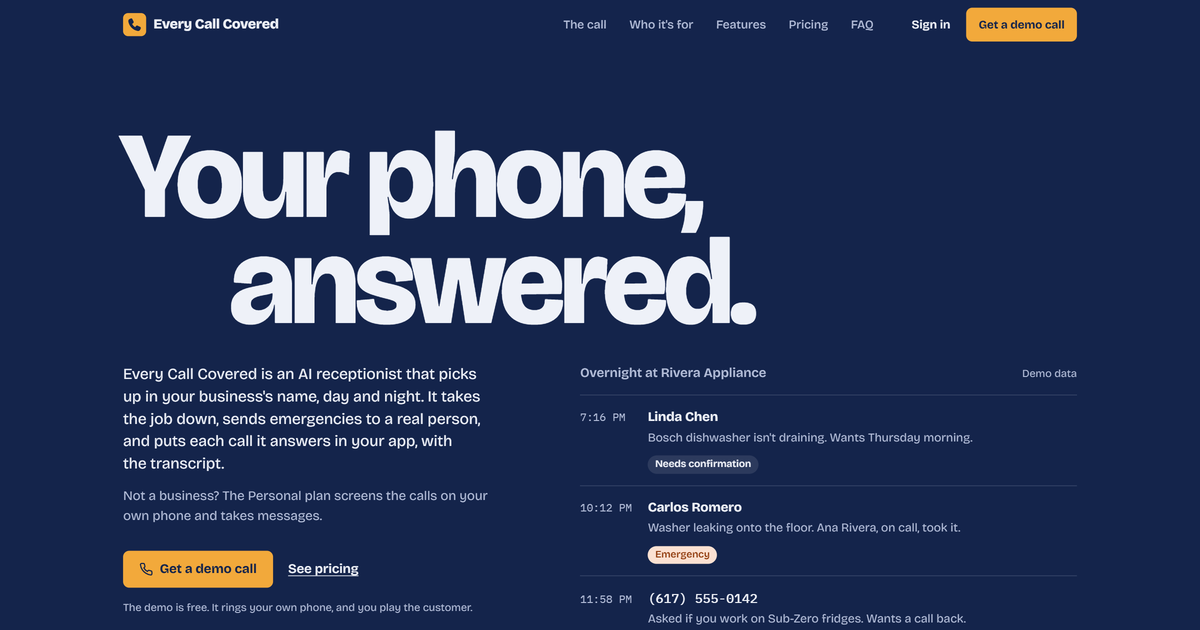
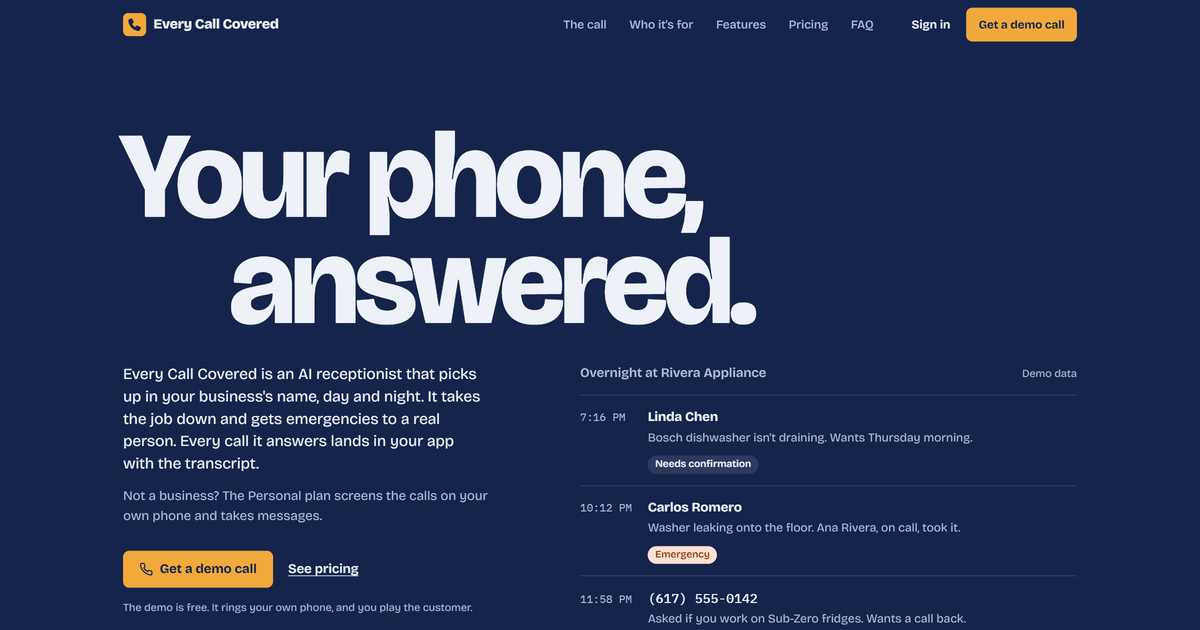
Fix the second design review's layout and copy findings
- Tablets use the short tab labels (the third was cut off at 768px); on
  phones the tabs are three equal columns and Play is a full-width button.
- The level meter sits in the call-state line instead of an empty row, and
  the transcript's top fade is long enough to hide clipped bubbles.
- The transcript height follows the text size; app buttons sit two by two
  on phones; numbers use the mono face everywhere and words never do.
- The emergency feature gets the emergency colour; the footer links are
  evenly spaced; tracks and control borders reach 3:1; the FAQ hover uses
  the brand navy; curly quotes throughout.
- Headings: the pricing notes are h3s under the pricing h2, and the
  Personal card is a section, not an aside.
- Without JavaScript the whole transcript shows, the section links sit in a
  row under the header on phones, and the calculator reads as an example.
- Copy: "What it does", "Messages you can act on", "Asks for a time", a
  two-part hero lede and matching share descriptions; share image retaken.

Changed region(s): [[0.0925, 0.6333, 0.4008, 0.754]]

diff --git a/index.html b/index.html
@@ -4,14 +4,14 @@
 <meta charset="utf-8">
 <meta name="viewport" content="width=device-width, initial-scale=1, viewport-fit=cover">
 <title>Every Call Covered: an AI receptionist that answers in your name</title>
-<meta name="description" content="An AI receptionist that answers your phone in your business's name, day and night. It takes the job down, sends emergencies to your on-call person, and puts every call it takes in your app with the transcript. From $65 a month for trade businesses, or $11.99 for your own phone.">
+<meta name="description" content="An AI receptionist that answers your phone in your business's name, day and night. It takes the job down and gets emergencies to your on-call person, and every call it answers lands in your app with the transcript. From $65 a month for trade businesses, or $11.99 for your own phone.">
 <!-- The app's address. Every sign-up, demo and sign-in link (data-app) also carries it in its href, so the links work without JavaScript; assets/site.js keeps them in step with this tag. To move the app, replace the address everywhere in this file. -->
 <meta name="ecc-app-url" content="https://every-call-covered.replit.app/sign-in">
 <meta name="theme-color" content="#14244b">
 <link rel="canonical" href="https://everycallcovered.com/">
 <meta property="og:site_name" content="Every Call Covered">
 <meta property="og:title" content="Every Call Covered: an AI receptionist that answers in your name">
-<meta property="og:description" content="It answers day and night, takes the job down, sends emergencies to your on-call person, and puts every call it takes in your app with the transcript.">
+<meta property="og:description" content="It answers in your business's name day and night, takes the job down and gets emergencies to your on-call person. Every call it answers lands in your app with the transcript.">
 <meta property="og:type" content="website">
 <meta property="og:url" content="https://everycallcovered.com/">
 <meta property="og:locale" content="en_US">
@@ -21,7 +21,7 @@
 <meta property="og:image:alt" content="The top of the Every Call Covered home page: the headline “Your phone, answered.” over an overnight call log.">
 <meta name="twitter:card" content="summary_large_image">
 <meta name="twitter:title" content="Every Call Covered: an AI receptionist that answers in your name">
-<meta name="twitter:description" content="It answers day and night, takes the job down, sends emergencies to your on-call person, and puts every call it takes in your app with the transcript.">
+<meta name="twitter:description" content="It answers in your business's name day and night, takes the job down and gets emergencies to your on-call person. Every call it answers lands in your app with the transcript.">
 <meta name="twitter:image" content="https://everycallcovered.com/assets/og-image.png">
 <meta name="twitter:image:alt" content="The top of the Every Call Covered home page: the headline “Your phone, answered.” over an overnight call log.">
 <link rel="icon" href="/favicon.ico" sizes="48x48">
@@ -81,7 +81,7 @@
   <div class="wrap">
     <h1 id="hero-title"><span>Your phone,</span> <span class="second">answered.</span></h1>
     <div class="hero-copy">
-      <p class="lede">Every Call Covered is an AI receptionist that picks up in your business's name, day and night. It takes the job down, sends emergencies to a real person, and puts each call it answers in your app, with the transcript.</p>
+      <p class="lede">Every Call Covered is an AI receptionist that picks up in your business's name, day and night. It takes the job down and gets emergencies to a real person. Every call it answers lands in your app with the transcript.</p>
       <p class="lede-2">Not a business? The Personal plan screens the calls on your own phone and takes messages.</p>
       <div class="ctas">
         <a class="btn" data-app href="https://every-call-covered.replit.app/sign-in" id="hero-cta"><svg aria-hidden="true"><use href="#i-phone"/></svg>Get a demo call</a>
@@ -115,7 +115,7 @@
         <div class="scenarios" role="tablist" aria-label="Example calls">
           <button role="tab" id="tab-repair" aria-selected="true" aria-controls="stage" data-scenario="repair"><span class="wide-only">A repair request</span><span class="narrow-only">Repair</span></button>
           <button role="tab" id="tab-emergency" aria-selected="false" aria-controls="stage" data-scenario="emergency" tabindex="-1"><span class="wide-only">An emergency at 10 PM</span><span class="narrow-only">Emergency</span></button>
-          <button role="tab" id="tab-scam" aria-selected="false" aria-controls="stage" data-scenario="scam" tabindex="-1"><span class="wide-only">A scam call, Personal plan</span><span class="narrow-only">Scam call</span></button>
+          <button role="tab" id="tab-scam" aria-selected="false" aria-controls="stage" data-scenario="scam" tabindex="-1"><span class="wide-only">A scam call, Personal plan</span><span class="narrow-only">Scam</span></button>
         </div>
         <div class="transport">
           <button class="ghost" id="play" type="button"><svg aria-hidden="true"><use href="#i-play"/></svg><span class="play-label">Play</span></button>
@@ -125,11 +125,10 @@
       <div class="stage" id="stage" role="tabpanel" aria-labelledby="tab-repair">
         <div class="line" id="line" data-state="ended">
           <div class="line-head">
-            <span class="line-state"><span class="led" aria-hidden="true"></span><span id="line-state">Call ended</span></span>
+            <span class="line-state"><span class="led" aria-hidden="true"></span><span id="line-state">Call ended</span><span class="meter" aria-hidden="true"><i></i><i></i><i></i><i></i><i></i><i></i><i></i></span></span>
             <span class="line-who" id="line-who">Your receptionist</span>
-            <span class="line-num" id="line-num">(781) 555-0123</span>
+            <span class="line-num" id="line-num">Caller <span class="num">(781) 555-0123</span></span>
             <span class="clock" id="clock" aria-hidden="true">0:48</span>
-            <span class="meter" aria-hidden="true"><i></i><i></i><i></i><i></i><i></i><i></i><i></i></span>
             <span class="now" aria-hidden="true"><span class="bar"><i id="line-progress" style="width: 100%"></i></span><span id="now-chapter">Lands in your app</span></span>
           </div>
           <div class="transcript resolved" id="transcript" role="log" aria-live="off" aria-label="Transcript" tabindex="0"><div class="msg r"><span class="who">Receptionist, 0:02</span><p>This call may be recorded for training and business purposes. Thanks for calling Rivera Appliance. How can I help you today?</p></div><div class="msg c"><span class="who">Caller, 0:09</span><p>Hi, my <span class="k">Bosch dishwasher isn't draining</span>. There's water sitting in the bottom after every cycle.</p></div><div class="msg r"><span class="who">Receptionist, 0:15</span><p>Sorry about that. I can get a technician out to look at it. Can I get your name and a good number to reach you?</p></div><div class="msg c"><span class="who">Caller, 0:23</span><p><span class="k">Linda Chen</span>, <span class="k">781-555-0123</span>.</p></div><div class="msg r"><span class="who">Receptionist, 0:27</span><p>Thanks, Linda. What's the address for the visit?</p></div><div class="msg c"><span class="who">Caller, 0:30</span><p><span class="k">27 Birch Lane</span> in Springfield.</p></div><div class="msg r"><span class="who">Receptionist, 0:33</span><p>Got it, 27 Birch Lane. Is a morning or an afternoon better for you?</p></div><div class="msg c"><span class="who">Caller, 0:38</span><p><span class="k">Thursday morning</span> would be great.</p></div><div class="msg r"><span class="who">Receptionist, 0:41</span><p>I have that down for Thursday morning. The office will confirm the visit with you.</p></div><div class="msg c"><span class="who">Caller, 0:46</span><p>Perfect, thanks.</p></div></div>
@@ -153,7 +152,7 @@
         <ol class="chapter-list" id="chapters" aria-label="Parts of the call"></ol>
       </div>
       <p class="sr-only" aria-live="polite" id="announce"></p>
-      <p class="demo-note">Sample calls with demo data, scripted for this page. The app screens are copies of the real app's screens.</p>
+      <p class="demo-note">Sample calls with demo data, scripted for this page. The app screens are rebuilt from the real app.</p>
     </div>
   </div>
 </section>
@@ -173,13 +172,13 @@
       </ul>
     </div>
 
-    <aside class="me" aria-labelledby="me-title">
+    <section class="me" aria-labelledby="me-title">
       <h2 id="me-title">And for your own phone</h2>
       <p class="intro">The Personal plan answers the calls you can't or won't take, and lets the right ones through.</p>
       <div class="me-points">
         <div><h3>Screens spam and scam calls</h3><p>Sales calls turned away if you like. A suspected scam is noted with the reason, and what to do if you already paid. Harassing calls are ended and flagged.</p></div>
         <div><h3>Family always gets through</h3><p>Put them on “Always ring me.” Numbers on “Never answer” are turned away. Everyone else reaches your assistant.</p></div>
-        <div><h3>Messages, not voicemail</h3><p>Who called, their number, what it's about and whether it's urgent. A caller who claims an emergency is checked first, with your family code word if you set one.</p></div>
+        <div><h3>Messages you can act on</h3><p>Who called, their number, what it's about and whether it's urgent. A caller who claims an emergency is checked first, with your family code word if you set one.</p></div>
         <div><h3>Creator mode</h3><p>Brand and sponsorship calls are taken down, never agreed to.</p></div>
       </div>
       <div class="mini" role="group" aria-label="Calls today, from the Personal app">
@@ -188,14 +187,14 @@
         <div class="mini-row"><span class="n num">(857) <span class="nw">555-0190</span></span><span class="tag warn">Suspected scam</span><span class="d">Said your car warranty is expiring and asked for your card number. Your assistant ended the call.</span></div>
       </div>
       <p class="me-more"><a class="link" href="#pricing">Personal is $11.99 a month. See the plan</a></p>
-    </aside>
+    </section>
   </div>
 </section>
 
 <section class="features" id="features" aria-labelledby="features-title">
   <div class="wrap features-inner">
     <div class="section-head">
-      <h2 id="features-title">From the first ring to the inbox</h2>
+      <h2 id="features-title">What it does</h2>
     </div>
 
     <div class="groups">
@@ -206,7 +205,7 @@
           <li><strong>Replies in the caller's language</strong><span>A caller who speaks Spanish hears Spanish back. Your notes stay in English.</span></li>
           <li><strong>Asks what your trade needs</strong><span>For appliance repair: the appliance, the brand, whether it's under warranty, the address and a good time. Each trade asks its own questions.</span></li>
           <li><strong>Says what it is</strong><span>It doesn't pretend to be a person. Asked, it says it's your virtual assistant.</span></li>
-          <li class="wide"><strong>Emergencies go to a person</strong><span>Your trade's emergency list, plus your own. It gives the safety step first, checks the problem is happening now, takes the address, then calls your on-call people in order until one presses 1. For a gas smell, it tells the caller to leave and call 911, books nothing, and still alerts your on-call person.</span></li>
+          <li class="wide key"><strong>Emergencies go to a person</strong><span>Your trade's emergency list, plus your own. It gives the safety step first, checks the problem is happening now, takes the address, then calls your on-call people in order until one presses 1. For a gas smell, it tells the caller to leave and call 911, books nothing, and still alerts your on-call person.</span></li>
         </ul>
       </div>
 
@@ -317,21 +316,22 @@
         <p class="hint">Personal is one sign-in, with no extra people. To add people, choose Business or Growth.</p>
       </div>
       <div>
+        <p class="no-js-only calc-example">At 60 call minutes a month:</p>
         <div class="readout"><label for="minutes">Call minutes in a month</label><output class="minutes" id="minutes-out" for="minutes">60</output></div>
         <input class="range" type="range" id="minutes" min="0" max="800" step="10" value="60" aria-valuetext="60 minutes" style="--p: .075">
         <div class="range-scale" aria-hidden="true"><span style="--x: 0">0</span><span style="--x: .5">400</span><span style="--x: 1">800</span></div>
         <ul class="totals" id="totals">
-          <li data-plan="personal"><span class="p">Personal</span><span class="v">$38.99</span><span class="why">$11.99 plus 60 minutes of credit</span></li>
-          <li data-plan="business"><span class="p">Business</span><span class="v">$65.00</span><span class="why">Inside the 150 included</span></li>
-          <li data-plan="growth"><span class="p">Growth</span><span class="v">$119.00</span><span class="why">Inside the 400 included</span></li>
+          <li data-plan="personal" class="best"><span class="p">Personal</span><span class="v">$38.99</span><span class="why">$11.99 + 60 min at $0.45</span></li>
+          <li data-plan="business"><span class="p">Business</span><span class="v">$65.00</span><span class="why">Within the 150 included minutes</span></li>
+          <li data-plan="growth"><span class="p">Growth</span><span class="v">$119.00</span><span class="why">Within the 400 included minutes</span></li>
         </ul>
       </div>
     </div>
 
     <div class="good-to-know">
-      <div><h4>$10 of calls to start</h4><p>After your first payment we add $10 of call credit. It's for calls only and expires after 30 days.</p></div>
-      <div><h4>Three free demo calls</h4><p>Your number goes live once your first payment goes through. Before that, you get three demo calls of up to three minutes each, with the transcript of each.</p></div>
-      <div><h4>Minutes and credit</h4><p>Included minutes reset each month and don't roll over. Credit is prepaid, and auto-refill can add more when it runs low.</p></div>
+      <div><h3>$10 of calls to start</h3><p>After your first payment we add $10 of call credit. It's for calls only and expires after 30 days.</p></div>
+      <div><h3>Three free demo calls</h3><p>Your number goes live once your first payment goes through. Before that, you get three demo calls of up to three minutes each, with the transcript of each.</p></div>
+      <div><h3>Minutes and credit</h3><p>Included minutes reset each month and don't roll over. Credit is prepaid, and auto-refill can add more when it runs low.</p></div>
     </div>
   </div>
 </section>
@@ -369,7 +369,7 @@
       </details>
       <details>
         <summary>Will it put jobs on my calendar?<span class="pm" aria-hidden="true"></span></summary>
-        <div class="a"><p>No. Every request lands in your inbox as "Needs confirmation." You confirm, edit, assign or decline it. Nothing is scheduled on its own, and confirming never texts the customer.</p></div>
+        <div class="a"><p>No. Every request lands in your inbox as “Needs confirmation.” You confirm, edit, assign or decline it. Nothing is scheduled on its own, and confirming never texts the customer.</p></div>
       </details>
     </div>
   </div>

diff --git a/assets/site.css b/assets/site.css
@@ -117,7 +117,7 @@ h1, h2, h3 { margin: 0; text-wrap: balance; }
 .head-actions .signin { padding: .6rem .8rem; text-decoration: none; font-weight: 600; font-size: .9688rem; min-height: 44px; display: inline-flex; align-items: center; border-radius: var(--radius-control); }
 .head-actions .signin:hover { background: rgba(255, 255, 255, .06); }
 .brand, .head-actions a { white-space: nowrap; }
-.site-head .brand { min-width: 0; }
+.site-head .brand { min-width: 44px; }
 .head-actions { flex: none; }
 @media (max-width: 479px) { .site-head .brand span { white-space: normal; line-height: 1.1; font-size: min(1em, 4.6vw); } }
 @media (max-width: 899px) { .site-nav { display: none; } .head-actions { margin-left: auto; } }
@@ -200,7 +200,7 @@ h1, h2, h3 { margin: 0; text-wrap: balance; }
 .transport .ghost { white-space: nowrap; background: var(--moon); color: var(--navy); border-color: var(--moon); padding-inline: 1.1rem; }
 .transport .ghost:hover { background: #fff; border-color: #fff; }
 .ghost {
-  min-height: 44px; padding: .5rem .95rem; border-radius: var(--radius-control); border: 1px solid rgba(179, 189, 216, .5);
+  min-height: 44px; padding: .5rem .95rem; border-radius: var(--radius-control); border: 1px solid rgba(179, 189, 216, .62);
   background: none; color: var(--moon); font-weight: 600; font-size: .9375rem; cursor: pointer; display: inline-flex; align-items: center; gap: .45rem;
   transition: background-color .18s ease, border-color .18s ease;
 }
@@ -225,7 +225,7 @@ h1, h2, h3 { margin: 0; text-wrap: balance; }
 .line-who { font-weight: 700; font-size: var(--step-1); line-height: 1.25; overflow-wrap: break-word; }
 .line-num { font-family: var(--mono); color: var(--moon-dim); font-size: .9375rem; }
 .clock { grid-row: 1 / 4; grid-column: 2; align-self: center; font-family: var(--mono); font-size: clamp(1.6rem, 1.2rem + 1.4vw, 2.25rem); font-weight: 400; letter-spacing: -.02em; font-variant-numeric: tabular-nums; line-height: 1; }
-.meter { display: flex; gap: 3px; align-items: center; height: 18px; margin-top: .35rem; }
+.meter { display: inline-flex; gap: 3px; align-items: center; height: 14px; margin-left: .35rem; }
 .meter i { width: 3px; height: 4px; border-radius: 2px; background: var(--moon-dim); opacity: .5; transition: height .12s ease; }
 .line[data-speaking="r"] .meter i, .line[data-speaking="c"] .meter i { opacity: 1; background: var(--amber); }
 .line[data-speaking="c"] .meter i { background: var(--chip); }
@@ -237,7 +237,7 @@ h1, h2, h3 { margin: 0; text-wrap: balance; }
 }
 @keyframes bar { 0%, 100% { height: 4px; } 50% { height: 16px; } }
 
-.transcript { flex: 1 1 0; min-height: 0; padding: 1.1rem 1.25rem 1.4rem; overflow-y: auto; -webkit-mask-image: linear-gradient(to bottom, transparent 0, #000 .6rem); mask-image: linear-gradient(to bottom, transparent 0, #000 .6rem); display: flex; flex-direction: column; gap: .75rem; scroll-behavior: smooth; }
+.transcript { flex: 1 1 0; min-height: 0; padding: 1.1rem 1.25rem 1.4rem; overflow-y: auto; -webkit-mask-image: linear-gradient(to bottom, transparent 0, #000 2rem); mask-image: linear-gradient(to bottom, transparent 0, #000 2rem); display: flex; flex-direction: column; gap: .75rem; scroll-behavior: smooth; }
 .transcript:empty::before { content: "The call starts when you press Play."; color: var(--moon-dim); font-size: .9375rem; }
 .msg { max-width: 88%; display: grid; gap: .25rem; }
 .msg .who { font-size: .8125rem; font-weight: 600; color: var(--moon-dim); }
@@ -339,7 +339,7 @@ h1, h2, h3 { margin: 0; text-wrap: balance; }
 .chapter-list .l { font-weight: 600; font-size: .9375rem; line-height: 1.25; }
 .chapter-list button[aria-current="step"] { color: var(--moon); }
 .chapter-list button[aria-current="step"] .t { color: var(--amber); }
-.chapter-list button.done { color: var(--moon-dim); }
+.chapter-list button.done { color: #d4daea; }
 .chapter-list button[aria-current="step"] .l { font-weight: 700; }
 .demo-note { margin-top: 1rem; font-size: var(--step--1); color: var(--moon-dim); }
 
@@ -426,8 +426,8 @@ h1, h2, h3 { margin: 0; text-wrap: balance; }
 .calc .readout { display: flex; justify-content: space-between; align-items: baseline; gap: 1rem; font-weight: 600; }
 .calc output.minutes { font-size: var(--step-3); font-weight: 800; letter-spacing: -.03em; font-variant-numeric: tabular-nums; }
 .range { width: 100%; margin: 1rem 0 .25rem; accent-color: var(--amber); height: 44px; background: none; -webkit-appearance: none; appearance: none; cursor: pointer; }
-.range::-webkit-slider-runnable-track { --at: calc(13px + (100% - 26px) * var(--p, .075)); height: 6px; border-radius: 6px; background: linear-gradient(to right, var(--amber) var(--at), rgba(179, 189, 216, .45) var(--at)); }
-.range::-moz-range-track { height: 6px; border-radius: 6px; background: rgba(179, 189, 216, .45); }
+.range::-webkit-slider-runnable-track { --at: calc(13px + (100% - 26px) * var(--p, .075)); height: 6px; border-radius: 6px; background: linear-gradient(to right, var(--amber) var(--at), rgba(179, 189, 216, .62) var(--at)); }
+.range::-moz-range-track { height: 6px; border-radius: 6px; background: rgba(179, 189, 216, .62); }
 .range::-moz-range-progress { height: 6px; border-radius: 6px; background: var(--amber); }
 .range::-webkit-slider-thumb { -webkit-appearance: none; width: 26px; height: 26px; margin-top: -10px; border-radius: 50%; background: var(--moon); border: 4px solid var(--amber); transition: transform .12s ease; }
 .range::-moz-range-thumb { width: 18px; height: 18px; border-radius: 50%; background: var(--moon); border: 4px solid var(--amber); }
@@ -444,7 +444,7 @@ h1, h2, h3 { margin: 0; text-wrap: balance; }
 .totals .why { display: block; font-size: .8125rem; color: var(--moon-dim); margin-top: .2rem; }
 .good-to-know { margin-top: 3rem; display: grid; grid-template-columns: minmax(0, 1fr); gap: 1.25rem 2.5rem; }
 @media (min-width: 760px) { .good-to-know { grid-template-columns: repeat(3, minmax(0, 1fr)); } }
-.good-to-know h4 { margin: 0 0 .35rem; font-size: 1.0625rem; font-weight: 700; }
+.good-to-know h3 { margin: 0 0 .35rem; font-size: 1.0625rem; font-weight: 700; }
 .good-to-know p { color: var(--moon-dim); font-size: .9688rem; }
 
 /* ---------- FAQ ---------- */
@@ -458,7 +458,7 @@ h1, h2, h3 { margin: 0; text-wrap: balance; }
   padding: 1.2rem 0; min-height: 44px; font-size: var(--step-1); font-weight: 700; letter-spacing: -.01em; line-height: 1.3;
 }
 .qa summary::-webkit-details-marker { display: none; }
-.qa summary:hover { color: #000; }
+.qa summary:hover { color: var(--navy); }
 .qa .pm { width: 28px; height: 28px; border-radius: 50%; border: 1.5px solid var(--ink); position: relative; transition: background-color .2s ease, transform .25s var(--ease-out); }
 .qa .pm::before, .qa .pm::after { content: ""; position: absolute; left: 50%; top: 50%; width: 12px; height: 1.5px; background: var(--ink); translate: -50% -50%; transition: transform .25s var(--ease-out), background-color .2s; }
 .qa .pm::after { transform: rotate(90deg); }
@@ -478,8 +478,8 @@ h1, h2, h3 { margin: 0; text-wrap: balance; }
 /* ---------- Footer ---------- */
 .site-foot { border-top: 1px solid var(--rule-on-navy); padding: 2.5rem 0 3rem; font-size: .9375rem; color: var(--moon-dim); }
 .site-foot .wrap { display: flex; flex-wrap: wrap; gap: 1.5rem 3rem; justify-content: space-between; align-items: flex-start; }
-.site-foot nav ul { list-style: none; margin: 0; padding: 0; display: flex; flex-wrap: wrap; gap: .25rem 1.25rem; }
-.site-foot nav a { text-decoration: none; min-height: 44px; min-width: 44px; display: inline-flex; align-items: center; justify-content: center; }
+.site-foot nav ul { list-style: none; margin: 0; padding: 0; display: flex; flex-wrap: wrap; gap: .25rem .5rem; }
+.site-foot nav a { text-decoration: none; min-height: 44px; padding-inline: .5rem; display: inline-flex; align-items: center; }
 .site-foot nav a:hover { color: var(--moon); text-decoration: underline; }
 .site-foot .brand { color: var(--moon); }
 
@@ -498,7 +498,7 @@ h1, h2, h3 { margin: 0; text-wrap: balance; }
 .log-more { margin-top: 1rem; }
 .log-more .link { color: var(--amber); }
 .app.compact { min-height: 0; display: block; box-shadow: none; background: none; border-radius: 0; overflow: visible; }
-.live-card .who .caller-num { font-weight: 700; white-space: nowrap; }
+.live-card .who .caller-num { font-family: var(--mono); font-weight: 500; }
 .transfer-demo .explain p + p { margin-top: .6rem; }
 .site-foot .copy { margin-top: .75rem; }
 
@@ -521,14 +521,14 @@ h1, h2, h3 { margin: 0; text-wrap: balance; }
 .calls-today .landing { gap: 0; }
 .calls-today .landing .mini-row { border-bottom: 0; }
 
-.app-note:empty { display: none; }
+.app-note:empty { min-height: 0; margin: 0; }
 @media (max-width: 639px) {
   .scenarios { flex-wrap: wrap; overflow: visible; }
   .scenarios [role="tab"] { flex: 1 1 auto; }
 }
 @media (max-width: 959px) {
   .line { min-height: 0; }
-  .transcript { flex: none; height: 460px; }
+  .transcript { flex: none; height: min(27em, 72svh); }
   .app { min-height: 0; }
 }
 @media (prefers-reduced-motion: reduce) {
@@ -542,10 +542,11 @@ h1, h2, h3 { margin: 0; text-wrap: balance; }
 /* Short labels on narrow screens */
 .narrow-only { display: none; }
 @media (max-width: 399px) { .head-actions .wide-only { display: none; } .head-actions .narrow-only { display: inline; } }
-@media (max-width: 639px) { .scenarios .wide-only { display: none; } .scenarios .narrow-only { display: inline; } .scenarios [role="tab"] { padding-inline: .7rem; } }
+@media (max-width: 959px) { .scenarios .wide-only { display: none; } .scenarios .narrow-only { display: inline; } .scenarios [role="tab"] { padding-inline: .7rem; } }
+@media (max-width: 639px) { .scenarios { display: grid; grid-template-columns: repeat(3, minmax(0, 1fr)); } .transport { flex: 1 1 100%; } .transport .ghost { width: 100%; justify-content: center; } }
 
 /* Menu below 900px */
-.menu-btn { display: none; width: 44px; height: 44px; border: 1px solid rgba(179, 189, 216, .5); border-radius: var(--radius-control); background: none; cursor: pointer; align-items: center; justify-content: center; }
+.menu-btn { display: none; width: 44px; height: 44px; border: 1px solid rgba(179, 189, 216, .62); border-radius: var(--radius-control); background: none; cursor: pointer; align-items: center; justify-content: center; }
 .menu-btn svg { width: 20px; height: 20px; }
 .menu-btn[aria-expanded="true"] { background: rgba(255, 255, 255, .08); }
 @media (max-width: 899px) { .menu-btn { display: inline-flex; } }
@@ -581,7 +582,7 @@ h1, h2, h3 { margin: 0; text-wrap: balance; }
   .player-bar { flex-wrap: wrap; }
   .scenarios { flex: 1 1 100%; }
   .trades li { font-size: 1rem; padding: .2rem 0; }
-  .transcript { height: 400px; }
+  .transcript { height: min(24em, 72svh); }
 }
 .me-more { margin-top: 1.5rem; }
 .me-more .link { color: var(--amber); }
@@ -612,9 +613,28 @@ html:not(.js) .calc .totals { margin-top: 1rem; }
 .no-js-only { display: none; }
 html:not(.js) .no-js-only { display: inline; }
 html:not(.js) .transfer-demo .app { display: none; }
-.line-num { white-space: nowrap; }
+.line-num { white-space: nowrap; font-family: var(--sans); }
+.line-num .num { font-size: .9375rem; color: var(--moon-dim); }
 /* With very large text on a narrow phone, the header keeps the mark and drops the wordmark (the link keeps its name) */
 .site-head > .wrap { container: head / inline-size; }
 @container head (max-width: 15em) {
   .site-head .brand span { position: absolute; width: 1px; height: 1px; overflow: hidden; clip: rect(0 0 0 0); white-space: nowrap; }
+}
+
+/* The emergency path is the one feature that wakes someone up: it gets the emergency colour */
+.items li.key { border-top: 2px solid var(--emergency); }
+.items li.key strong { color: var(--emergency); }
+/* The calculator marks the lowest total at the chosen minutes */
+.totals li.best .v { color: var(--amber); }
+.totals li.best .p::after { content: " \00b7 lowest"; color: var(--amber); }
+/* Four app buttons on a phone sit two by two */
+@media (max-width: 479px) { .inbox-row .app-actions { display: grid; grid-template-columns: repeat(2, minmax(0, 1fr)); } .inbox-row .app-btn { justify-content: center; } }
+/* Without JavaScript: the whole transcript shows, the section links sit in a row under the header, and the calculator reads as an example */
+html:not(.js) .transcript { flex: none; height: auto; overflow: visible; -webkit-mask-image: none; mask-image: none; }
+html:not(.js) .readout { display: none; }
+html:not(.js) .calc-example { display: block; font-weight: 600; }
+@media (max-width: 899px) {
+  html:not(.js) .menu[hidden] { display: block; padding: 0 0 .25rem; }
+  html:not(.js) .menu .wrap { display: flex; flex-wrap: wrap; gap: 0 1rem; }
+  html:not(.js) .menu a { border: 0; font-size: 1rem; min-height: 44px; }
 }
